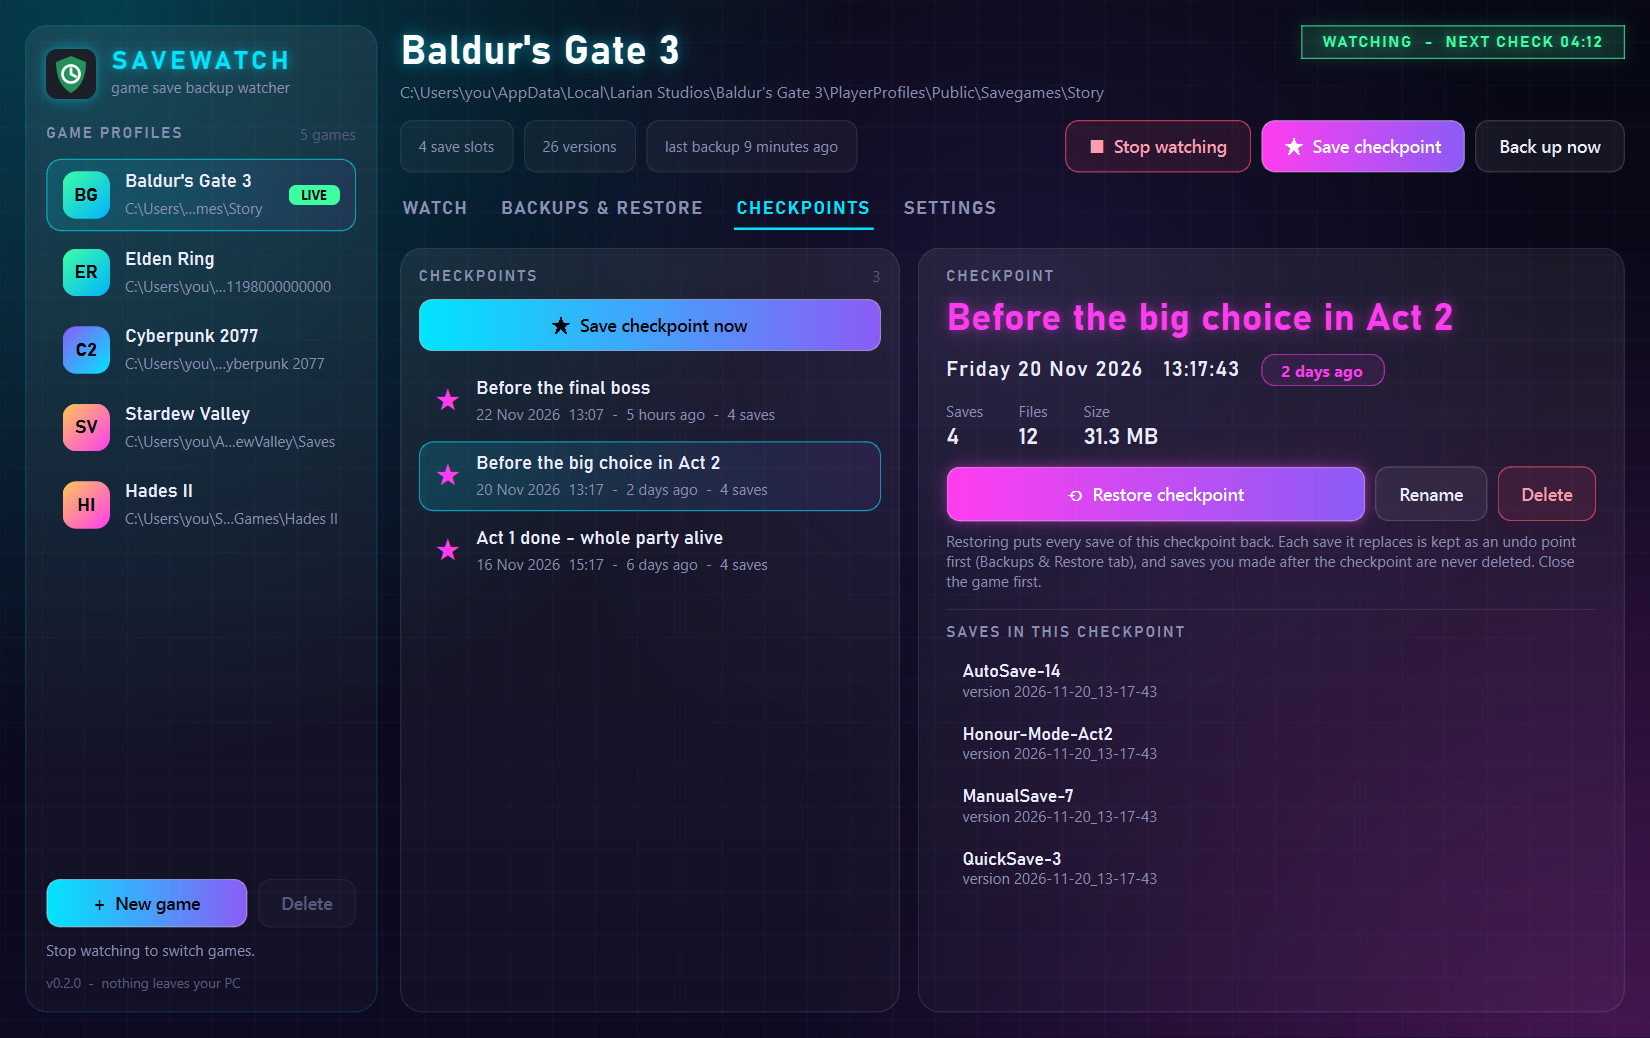
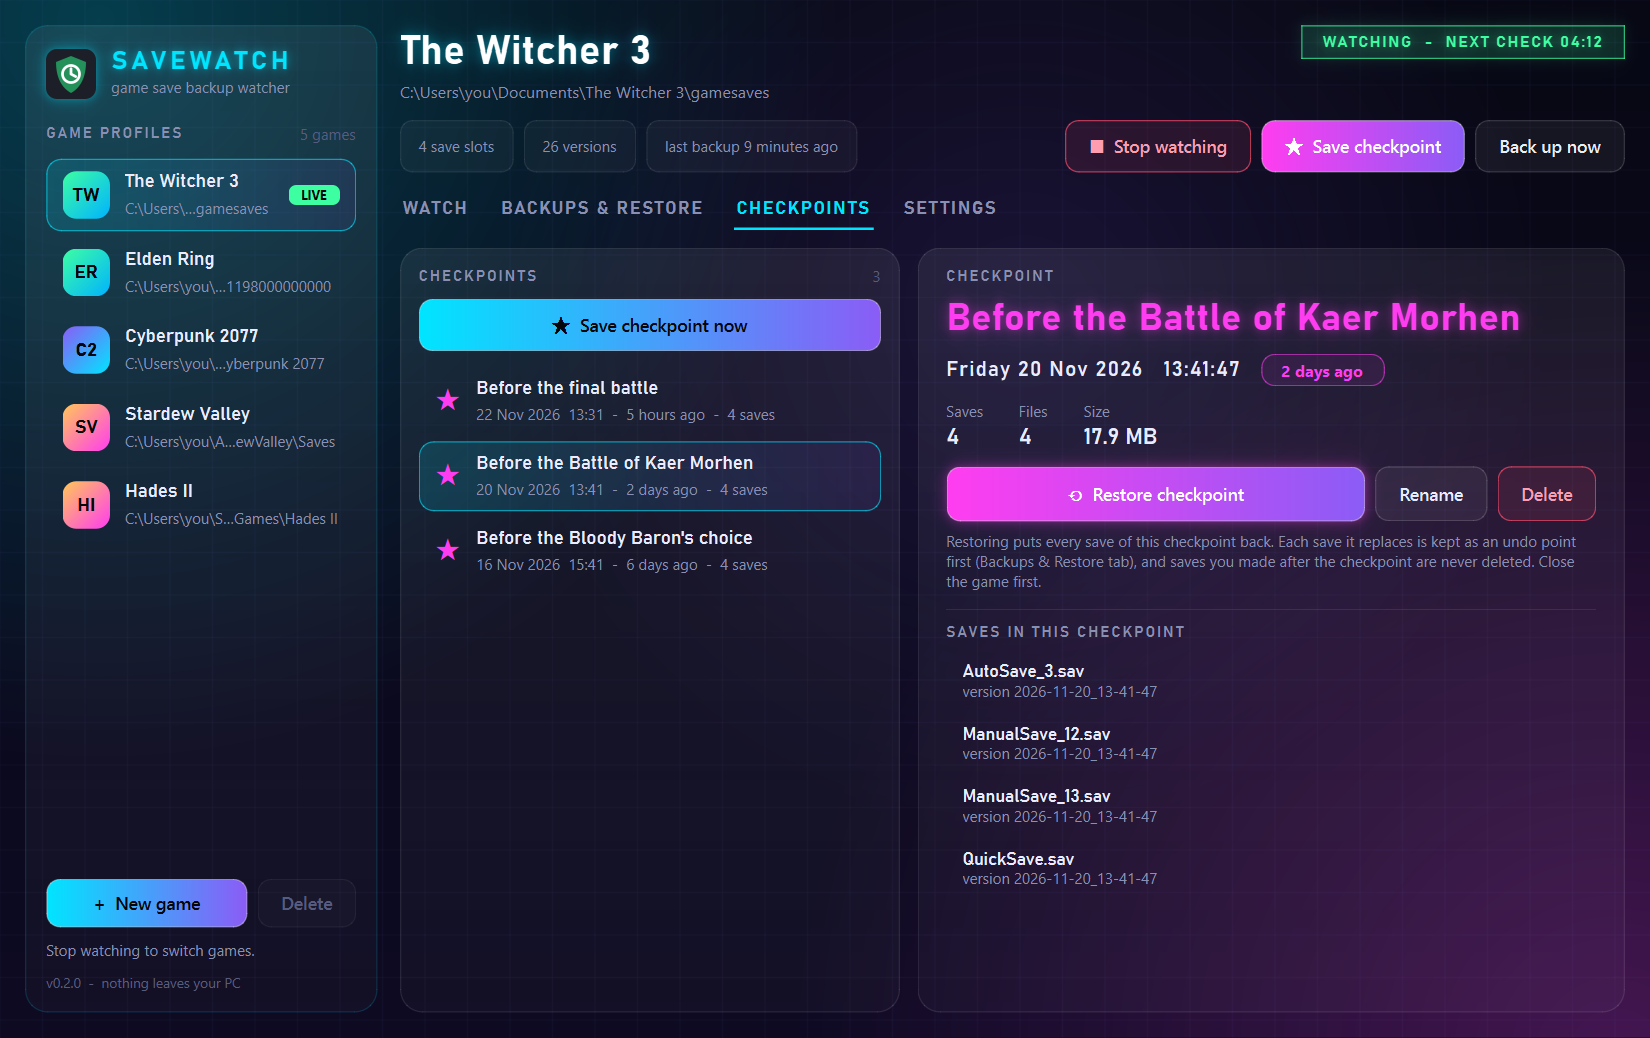
Screenshots and examples use The Witcher 3
- README screenshots now show a The Witcher 3 profile (single-file .sav
  saves, checkpoints like "Before the Battle of Kaer Morhen").
- Name guessing skips "gamesaves", so ...\The Witcher 3\gamesaves is
  named "The Witcher 3" instead of "gamesaves".
- Log lines and the undo list say "1 file" instead of "1 files".

diff --git a/scripts/screenshot.py b/scripts/screenshot.py
@@ -36,52 +36,53 @@ autostart.is_enabled = lambda: False  # never touch the registry for a screensho
 autostart.set_enabled = lambda enabled: None
 
 NOW = datetime.now().replace(microsecond=0)
-FAKE_SRC = r"C:\Users\you\AppData\Local\Larian Studios\Baldur's Gate 3\PlayerProfiles\Public\Savegames\Story"
-FAKE_DST = r"D:\SaveBackups\Baldur's Gate 3"
+FAKE_SRC = r"C:\Users\you\Documents\The Witcher 3\gamesaves"
+FAKE_DST = r"D:\SaveBackups\The Witcher 3"
+MAIN_SLOT = "ManualSave_12.sav"
 
 
 def make_version(backup: str, slot: str, when: datetime, size: int) -> None:
+    # The Witcher 3 saves are single files, stored as <version>/<file name>.
     folder = os.path.join(backup, slot, when.strftime(core.STAMP_FORMAT))
     os.makedirs(folder, exist_ok=True)
-    for name, share in (("SaveGame.lsv", 0.86), ("SaveInfo.json", 0.01), ("Thumbnail.webp", 0.13)):
-        with open(os.path.join(folder, name), "wb") as fh:
-            fh.truncate(int(size * share))  # sparse: right size, no real bytes
+    with open(os.path.join(folder, slot), "wb") as fh:
+        fh.truncate(size)  # sparse: right size, no real bytes
 
 
 def build_demo_backup() -> str:
     backup = os.path.join(tmp, "backup")
     plan = {
-        "AutoSave-14": [(0, 2, 10), (0, 1, 30), (0, 0, 45), (0, 0, 9)],
-        "Honour-Mode-Act2": [(3, 4, 0), (1, 2, 30), (0, 6, 15)],
-        "ManualSave-7": [(9, 0, 0), (6, 3, 0), (4, 1, 20), (2, 5, 0), (1, 0, 40),
-                         (0, 5, 10), (0, 3, 2), (0, 1, 12)],
-        "QuickSave-3": [(0, 4, 0), (0, 0, 22)],
+        "AutoSave_3.sav": [(0, 2, 10), (0, 1, 30), (0, 0, 45), (0, 0, 9)],
+        MAIN_SLOT: [(9, 0, 0), (6, 3, 0), (4, 1, 20), (2, 5, 0), (1, 0, 40),
+                    (0, 5, 10), (0, 3, 2), (0, 1, 12)],
+        "ManualSave_13.sav": [(3, 4, 0), (1, 2, 30), (0, 6, 15)],
+        "QuickSave.sav": [(0, 4, 0), (0, 0, 22)],
     }
     for slot, ages in plan.items():
         for i, (d, h, m) in enumerate(ages):
             make_version(backup, slot, NOW - timedelta(days=d, hours=h, minutes=m),
-                         7_800_000 + 310_000 * i)
+                         4_300_000 + 90_000 * i)
     checkpoints = []
-    for title, (d, h, m) in (("Act 1 done - whole party alive", (6, 3, 0)),
-                             ("Before the big choice in Act 2", (2, 5, 0)),
-                             ("Before the final boss", (0, 5, 10))):
+    for title, (d, h, m) in (("Before the Bloody Baron's choice", (6, 3, 0)),
+                             ("Before the Battle of Kaer Morhen", (2, 5, 0)),
+                             ("Before the final battle", (0, 5, 10))):
         when = NOW - timedelta(days=d, hours=h, minutes=m)
         stamp = when.strftime(core.STAMP_FORMAT)
         for slot in plan:
-            make_version(backup, slot, when, 8_200_000)
+            make_version(backup, slot, when, 4_700_000)
         checkpoints.append({"id": stamp, "title": title, "created": when.isoformat(),
                             "entries": [{"name": s, "version": stamp} for s in plan],
-                            "files": 12, "bytes": 4 * 8_200_000})
+                            "files": 4, "bytes": 4 * 4_700_000})
     with open(os.path.join(backup, core.CHECKPOINTS_FILENAME), "w") as fh:
         json.dump({"checkpoints": checkpoints}, fh)
-    undo_dir = os.path.join(backup, core.UNDO_DIRNAME, "ManualSave-7")
+    undo_dir = os.path.join(backup, core.UNDO_DIRNAME, MAIN_SLOT)
     for minutes, reason in ((26, "before restoring 2026-11-20_19-02-11"),
-                            (190, "before restoring 2026-11-18_21-44-37")):
+                            (190, "before restoring checkpoint 'Before the final battle'")):
         stamp = (NOW - timedelta(minutes=minutes)).strftime(core.STAMP_FORMAT)
         os.makedirs(os.path.join(undo_dir, stamp), exist_ok=True)
         with open(os.path.join(undo_dir, stamp + ".json"), "w") as fh:
-            json.dump({"entry": "ManualSave-7", "reason": reason, "absent": False,
-                       "kind": "dir", "files": 3, "bytes": 9_430_000}, fh)
+            json.dump({"entry": MAIN_SLOT, "reason": reason, "absent": False,
+                       "kind": "file", "files": 1, "bytes": 4_820_000}, fh)
     return backup
 
 
@@ -89,7 +90,7 @@ app = setup_app(sys.argv[0])
 backup = build_demo_backup()
 
 s = config.Settings()
-bg3 = s.add_profile("Baldur's Gate 3", source=FAKE_SRC, backup=backup, interval_minutes=5, keep=10)
+witcher = s.add_profile("The Witcher 3", source=FAKE_SRC, backup=backup, interval_minutes=5, keep=10)
 s.add_profile("Elden Ring", source=r"C:\Users\you\AppData\Roaming\EldenRing\76561198000000000",
               backup=r"D:\SaveBackups\Elden Ring")
 s.add_profile("Cyberpunk 2077", source=r"C:\Users\you\Saved Games\CD Projekt Red\Cyberpunk 2077",
@@ -98,23 +99,23 @@ s.add_profile("Stardew Valley", source=r"C:\Users\you\AppData\Roaming\StardewVal
               backup=r"D:\SaveBackups\Stardew Valley")
 s.add_profile("Hades II", source=r"C:\Users\you\Saved Games\Hades II",
               backup=r"D:\SaveBackups\Hades II", keep=25)
-s.active_profile = bg3.id
+s.active_profile = witcher.id
 
 win = SaveWatchWindow(s)
 win.log_view.clear()
-win.log("info", f"[Baldur's Gate 3] watching {FAKE_SRC}")
-win.log("info", rf"Backing up to {FAKE_DST} - every 5 min, keeping 10 versions (14 saves already known).")
-win.log("ok", "new: 'QuickSave-3' -> 2026-11-22_14-30-05 (12 files, 8.4 MB)")
-win.log("ok", "changed: 'ManualSave-7' -> 2026-11-22_14-35-05 (12 files, 8.6 MB - only 2 rewritten (1.1 MB), 10 reused)")
-win.log("prune", "removed old version ManualSave-7/2026-11-12_20-10-33")
-win.log("ok", "restored 'ManualSave-7' to version 2026-11-20_19-02-11 (3 files, 9.4 MB) - previous save kept as undo point 2026-11-22_14-41-50")
-win.log("ok", "checkpoint 'Before the final boss' saved: 4 saves, 12 files, 31.3 MB")
-win.log("alert", "'AutoSave-1' disappeared from the source - its backups are kept")
-win.log("info", "15 saves checked - 2 backed up (17.0 MB) - 1.1 MB actually written, 10 files reused from the last version.")
+win.log("info", f"[The Witcher 3] watching {FAKE_SRC}")
+win.log("info", rf"Backing up to {FAKE_DST} - every 5 min, keeping 10 versions (8 saves already known).")
+win.log("ok", "new: 'QuickSave.sav' -> 2026-11-22_14-30-05 (1 file, 4.4 MB)")
+win.log("ok", "changed: 'ManualSave_12.sav' -> 2026-11-22_14-35-05 (1 file, 4.6 MB)")
+win.log("prune", "removed old version ManualSave_12.sav/2026-11-12_20-10-33")
+win.log("ok", "restored 'ManualSave_12.sav' to version 2026-11-20_19-02-11 (1 file, 4.5 MB) - previous save kept as undo point 2026-11-22_14-41-50")
+win.log("ok", "checkpoint 'Before the final battle' saved: 4 saves, 4 files, 17.9 MB")
+win.log("alert", "'AutoSave_1.sav' disappeared from the source - its backups are kept")
+win.log("info", "8 saves checked - 2 backed up (9.0 MB).")
 
 # Look like a running watch without starting one.
 win.running = True
-win.watched_id = bg3.id
+win.watched_id = witcher.id
 win._update_profile_rows()
 win.lock_hint.show()
 win._show_running_buttons(True)
@@ -135,7 +136,7 @@ win.tabs[1].click()
 for _ in range(5):
     app.processEvents()
 for i in range(win.slot_list.count()):
-    if win.slot_list.item(i).data(0x0100) == "ManualSave-7":
+    if win.slot_list.item(i).data(0x0100) == MAIN_SLOT:
         win.slot_list.setCurrentRow(i)
 win.version_list.setCurrentRow(2)
 for _ in range(5):

diff --git a/src/savewatch/core.py b/src/savewatch/core.py
@@ -72,6 +72,11 @@ def _no_log(level: str, text: str) -> None:
     pass
 
 
+def plural(n: int, word: str) -> str:
+    """'1 file', '3 files'."""
+    return f"{n} {word}{'' if n == 1 else 's'}"
+
+
 def human_bytes(n: float) -> str:
     step = 1024.0
     for unit in ("B", "KB", "MB", "GB", "TB"):
@@ -393,7 +398,7 @@ def run_backup_cycle(source: str, backup_root: str, keep: int, state: dict,
         stats["written_bytes"] += tally["written_bytes"]
         stats["linked"] += tally["linked"]
 
-        detail = f"{sig['files']} files, {human_bytes(sig['bytes'])}"
+        detail = f"{plural(sig['files'], 'file')}, {human_bytes(sig['bytes'])}"
         if tally["linked"]:
             detail += (f" - only {tally['written']} rewritten "
                        f"({human_bytes(tally['written_bytes'])}), {tally['linked']} reused")
@@ -740,7 +745,7 @@ def restore_version(source: str, backup_root: str, name: str, version: str,
     _remember_restored(source, backup_root, name)
 
     files, size = folder_stats(data_dir)
-    log("ok", f"restored '{name}' to version {version} ({files} files, {human_bytes(size)}) "
+    log("ok", f"restored '{name}' to version {version} ({plural(files, 'file')}, {human_bytes(size)}) "
               f"- previous save kept as undo point {undo_id}")
     append_history(backup_root, f"RESTORE  {name} <- {version} (undo point {undo_id})")
     return {"name": name, "version": version, "undo_id": undo_id, "files": files, "bytes": size}
@@ -894,7 +899,8 @@ def create_checkpoint(source: str, backup_root: str, title: str, log: LogFn = _n
     _save_checkpoints(backup_root, [*items, record])
     save_state(backup_root, state)
 
-    log("ok", f"checkpoint '{title}' saved: {len(entries)} saves, {files} files, {human_bytes(size)}")
+    log("ok", f"checkpoint '{title}' saved: {plural(len(entries), 'save')}, "
+              f"{plural(files, 'file')}, {human_bytes(size)}")
     for err in errors:
         log("warn", f"checkpoint skipped {err}")
     append_history(backup_root, f"CHECKPOINT '{title}' ({len(entries)} saves)")

diff --git a/src/savewatch/app.py b/src/savewatch/app.py
@@ -34,6 +34,7 @@ from .core import (
     load_state,
     parse_stamp,
     pinned_versions,
+    plural,
     rename_checkpoint,
     restore_checkpoint,
     restore_version,
@@ -687,7 +688,7 @@ class SaveWatchWindow(Backdrop):
         grid.addWidget(section("Check every (minutes)"), 0, 1)
         grid.addWidget(section("Versions to keep  (0 = all)"), 0, 2)
         self.name_edit = QLineEdit()
-        self.name_edit.setPlaceholderText("e.g. Baldur's Gate 3")
+        self.name_edit.setPlaceholderText("e.g. The Witcher 3")
         self.name_edit.textEdited.connect(self._on_name_edited)
         grid.addWidget(self.name_edit, 1, 0)
         self.interval_spin = QDoubleSpinBox()
@@ -1366,7 +1367,7 @@ class SaveWatchWindow(Backdrop):
             when = pt["created_time"]
             what = pt.get("reason") or "before restore"
             size = ("save did not exist" if pt.get("absent")
-                    else f"{pt.get('files', 0)} files, {human_bytes(pt.get('bytes', 0))}")
+                    else f"{plural(pt.get('files', 0), 'file')}, {human_bytes(pt.get('bytes', 0))}")
             stamp = when.strftime("%d %b %H:%M") if when else "?"
             row = RowWidget(what[:1].upper() + what[1:],
                             f"{stamp}  -  {humanize_age(when)}  -  {size}",

diff --git a/src/savewatch/config.py b/src/savewatch/config.py
@@ -23,7 +23,7 @@ DEFAULT_PROFILE_NAME = "New game"
 
 # Path parts that never name the game itself, so the name guess skips them.
 _GENERIC_PARTS = {
-    "save", "saves", "savegame", "savegames", "saved", "savedata", "savefiles",
+    "save", "saves", "savegame", "savegames", "gamesaves", "saved", "savedata", "savefiles",
     "saved games", "my games", "story", "profiles", "profile", "playerprofiles",
     "public", "remote", "local", "locallow", "roaming", "appdata", "documents",
     "users", "userdata", "steam", "win64", "windows", "wingdk", "data", "game",
@@ -38,7 +38,7 @@ def config_path() -> str:
 def guess_game_name(path: str) -> str:
     """Best guess at a game's name from its save folder path.
 
-    ...\\Baldur's Gate 3\\PlayerProfiles\\Public\\Savegames\\Story -> Baldur's Gate 3
+    ...\\Documents\\The Witcher 3\\gamesaves -> The Witcher 3
     """
     parts = [p for p in re.split(r"[\\/]+", path.strip()) if p]
     for part in reversed(parts):

diff --git a/tests/test_config.py b/tests/test_config.py
@@ -68,6 +68,7 @@ def test_suggest_backup_and_names(tmp_path):
     assert s.suggest_backup('Wh:at?') == str(tmp_path / "SaveBackups" / "What")
     assert safe_folder_name("  ...  ") == "Game"
     assert guess_game_name(r"C:\Users\me\Saved Games\CD Projekt Red\Cyberpunk 2077") == "Cyberpunk 2077"
+    assert guess_game_name(r"C:\Users\me\Documents\The Witcher 3\gamesaves") == "The Witcher 3"
     assert guess_game_name(r"C:\Users\me\AppData\Roaming\EldenRing\76561198000000000") == "EldenRing"
     assert guess_game_name("") == ""
 

diff --git a/README.md b/README.md
@@ -43,7 +43,7 @@ What it keeps on disk:
 
 ## Features
 
-- **Game profiles**: one profile per game, each with its own save folder, backup folder, check interval and versions to keep. Pick a save folder and the game's name is filled in for you (`...\Baldur's Gate 3\PlayerProfiles\Public\Savegames\Story` → *Baldur's Gate 3*).
+- **Game profiles**: one profile per game, each with its own save folder, backup folder, check interval and versions to keep. Pick a save folder and the game's name is filled in for you (`...\Documents\The Witcher 3\gamesaves` → *The Witcher 3*).
 - **Backups & Restore browser**: every save slot, every version with its date, time and age ("3 hours ago"), file count and size.
 - **Safe one-click restore**: the save you have now is copied to an undo point first, the old version is fully copied next to it, then the two are swapped. If the game has a file locked, nothing is changed.
 - **Undo** any restore (and undo the undo). Undo points expire after 7 days by default (configurable, or keep forever).
